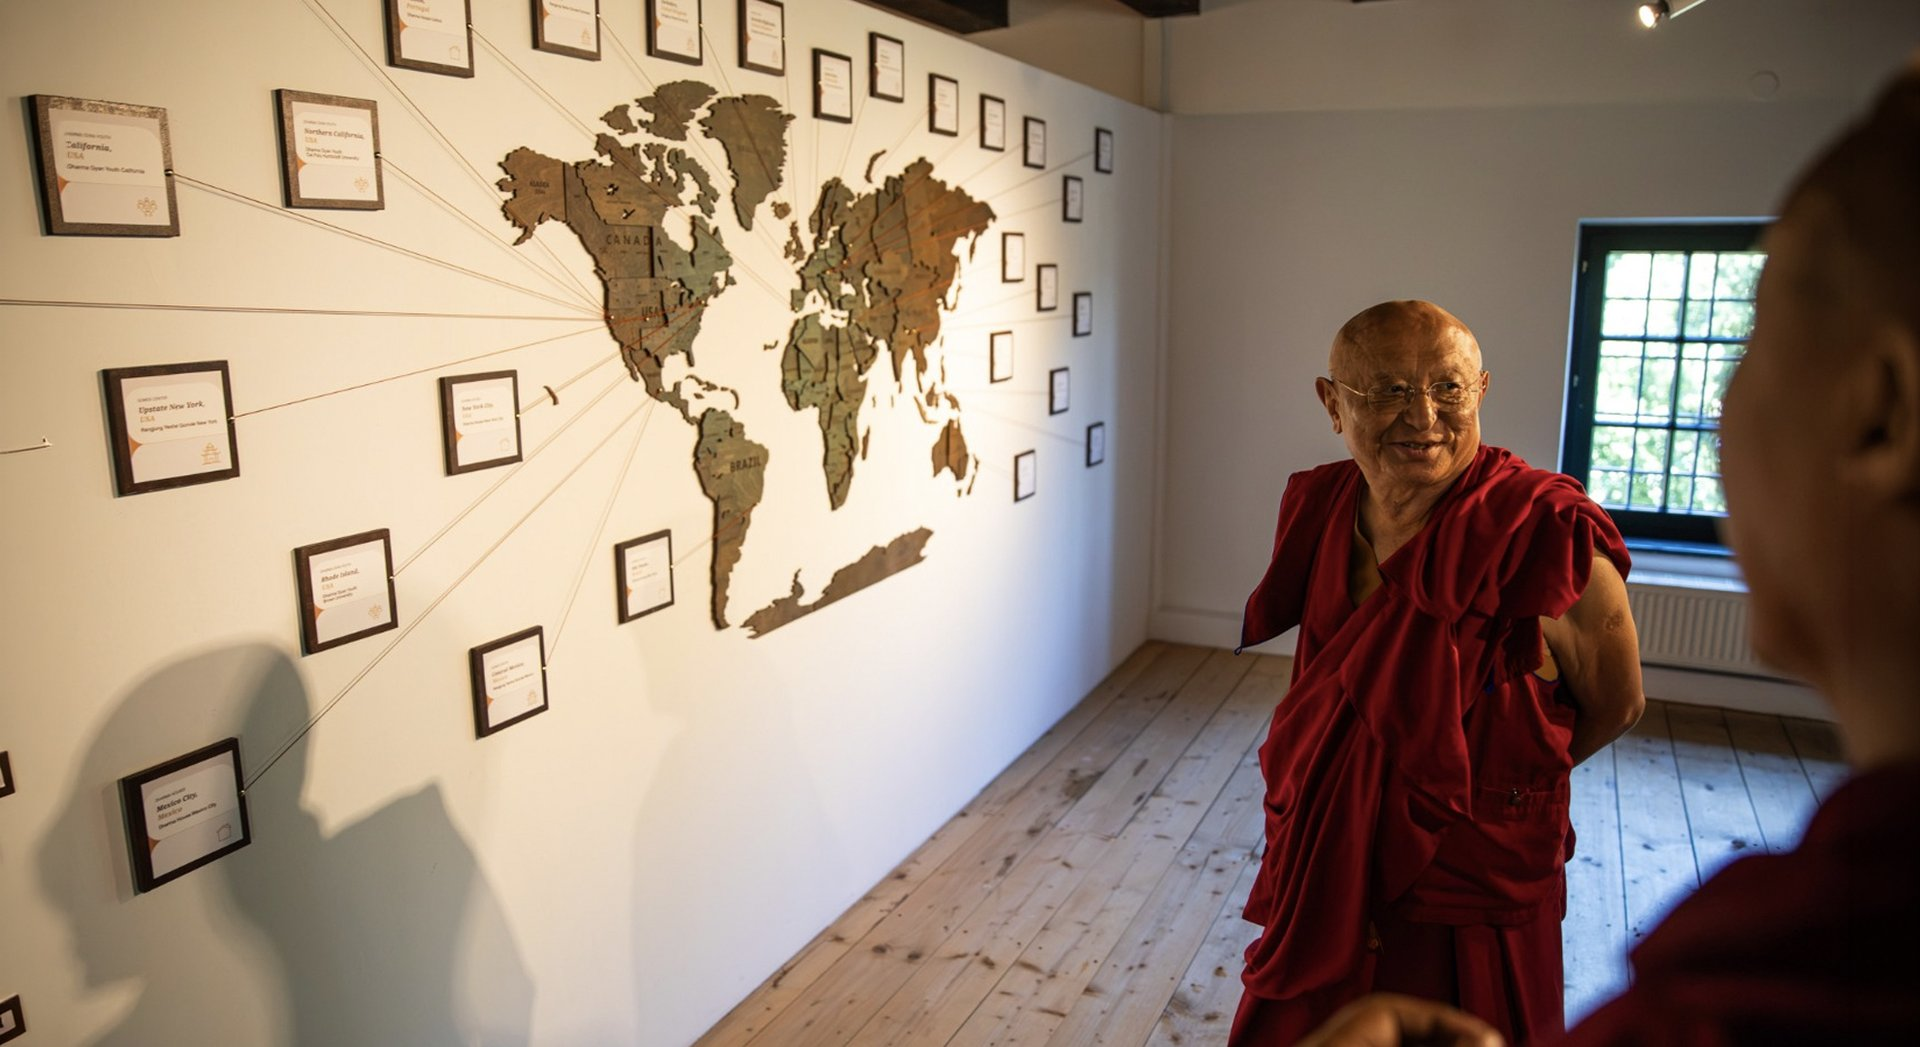
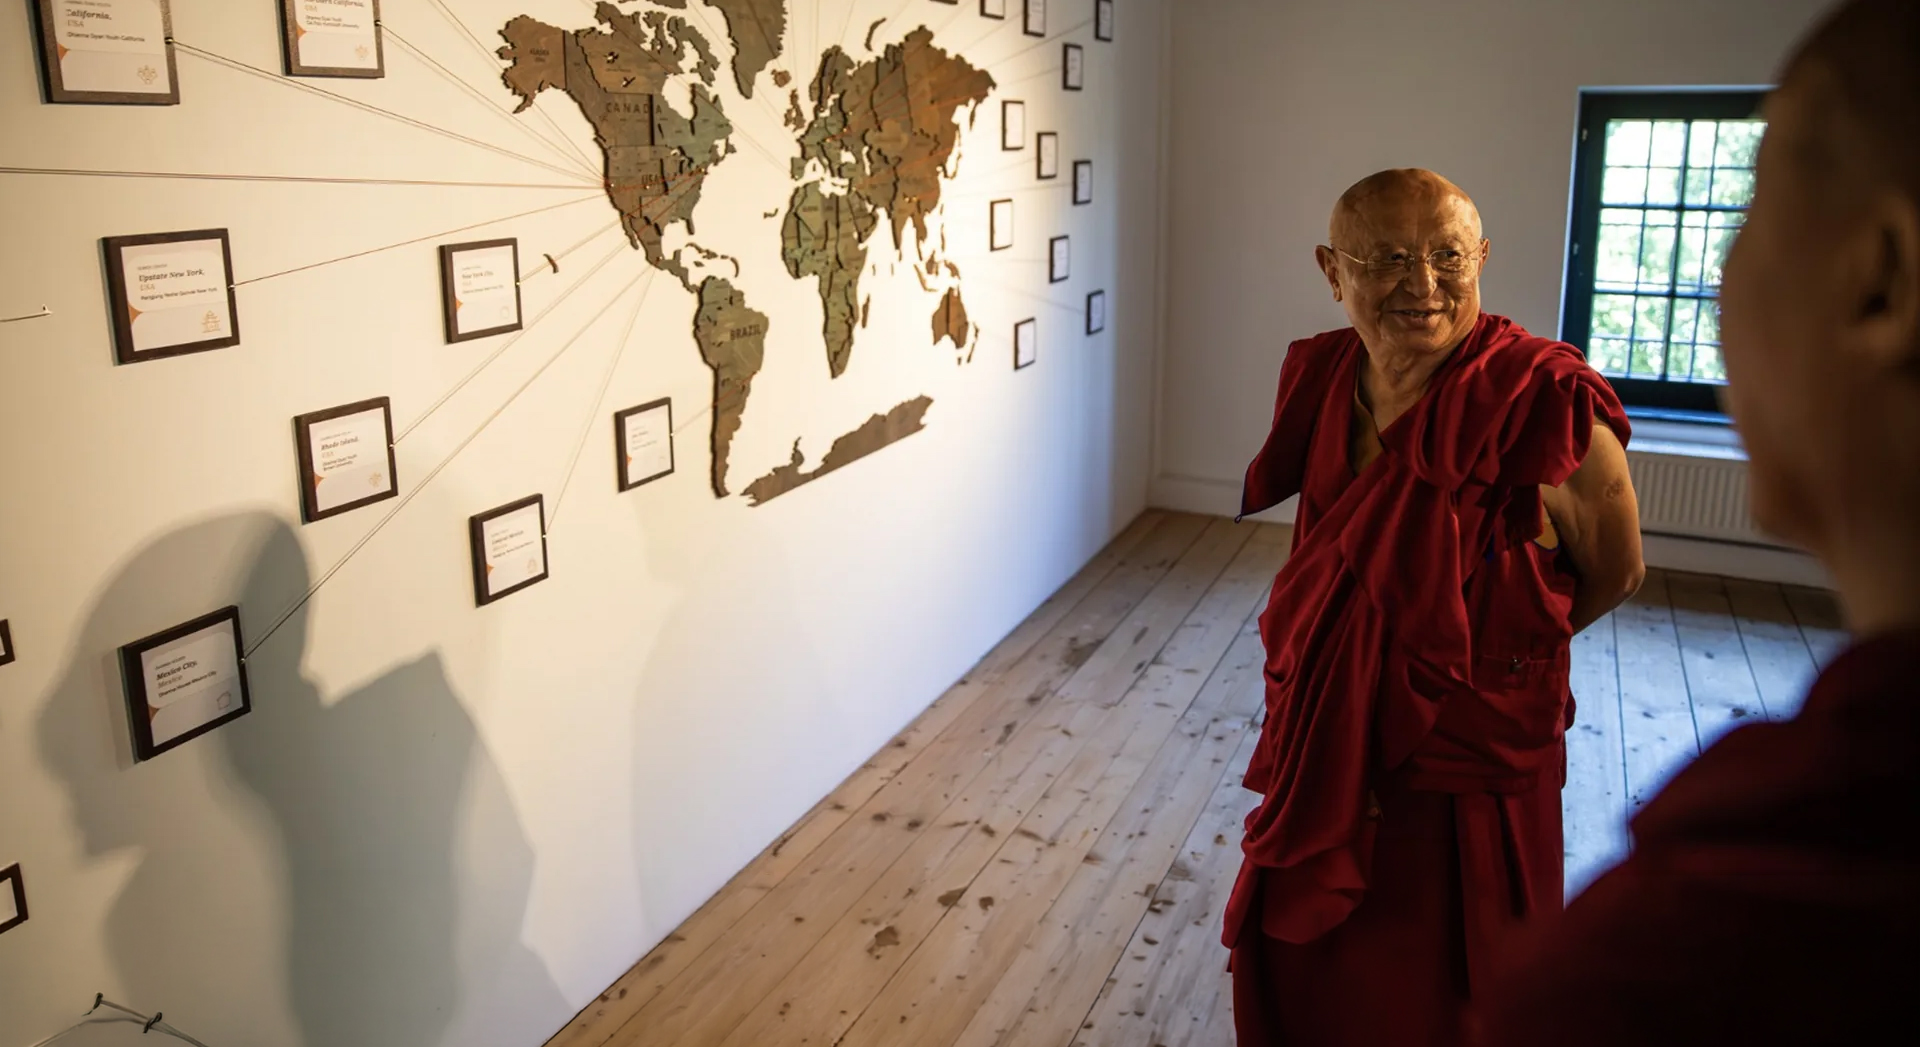
rform should work now

diff --git a/speak-with-our-team.html b/speak-with-our-team.html
@@ -7,7 +7,7 @@
 <meta name="description" content="A founding gift begins with a conversation, not a form. Private, unhurried conversations held directly with the Founding Rector and development team.">
 <link rel="icon" href="img/favicon-32.png" type="image/png" sizes="32x32">
 <link rel="apple-touch-icon" href="img/favicon-192.png">
-<link rel="stylesheet" href="css/style.css?v=37">
+<link rel="stylesheet" href="css/style.css?v=40">
 <script>document.documentElement.classList.add('js');try{var s=window.sessionStorage;if(s.getItem('gomdeLoaderSeen'))document.documentElement.classList.add('loader-seen');else s.setItem('gomdeLoaderSeen','1');}catch(e){}</script>
 </head>
 <body>
@@ -50,7 +50,7 @@
 </header>
 
 <main id="main">
-<section class="page-hero">
+<section class="page-hero page-hero--gradient">
   <div class="wrap">
     <p class="eyebrow">Become a Founder</p>
     <h1>A conversation,<br>before anything else</h1>
@@ -94,14 +94,16 @@
       <h2>Start the conversation</h2>
       <p class="muted">Tell us a little about yourself and what draws you to this work. Everything you share is held in confidence.</p>
 
-      <!-- CONTACT FORM ▸ powered by formsubmit.co (no backend needed).
-           To change the recipient, replace the email in the action URL below.
-           NOTE: the first submission triggers a one-time activation email to
-           that address — click the link in it to activate the form. -->
-      <form action="https://formsubmit.co/[email redacted]" method="POST" class="form-grid">
-        <input type="hidden" name="_subject" value="Founding inquiry — Kremsegg University website">
-        <input type="hidden" name="_template" value="table">
-        <input type="text" name="_honey" style="display:none" tabindex="-1" autocomplete="off" aria-hidden="true">
+      <!-- CONTACT FORM ▸ powered by Web3Forms (no backend needed).
+           Submissions go to the inbox registered to the access_key below.
+           To change the recipient, swap in a new key from https://web3forms.com -->
+
+      <form action="https://api.web3forms.com/submit" method="POST" class="form-grid">
+        <input type="hidden" name="access_key" value="cd746b90-1dbd-4954-8a20-3e30c8b845dc">
+        <input type="hidden" name="subject" value="Founding inquiry — Kremsegg University website">
+        <input type="hidden" name="from_name" value="Kremsegg University website">
+        <!-- honeypot: bots that tick this hidden box are silently rejected -->
+        <input type="checkbox" name="botcheck" style="display:none" tabindex="-1" autocomplete="off" aria-hidden="true">
 
         <div>
           <label for="cf-name">Name</label>
@@ -201,6 +203,47 @@
   if (document.readyState === 'complete') h();
   else window.addEventListener('load', h);
   setTimeout(h, 6000);
+})();
+</script>
+<script>
+/* Contact form — submit via AJAX so we can show an inline "thank you" without
+   leaving the page. Progressive enhancement: if this script doesn't run, the
+   form still POSTs normally and lands on Web3Forms' own success page. */
+(function () {
+  var form = document.querySelector('#contact-form form');
+  if (!form || !window.fetch) return;
+  form.addEventListener('submit', function (e) {
+    e.preventDefault();
+    var btn = form.querySelector('button[type="submit"]');
+    var orig = btn ? btn.textContent : '';
+    if (btn) { btn.disabled = true; btn.textContent = 'Sending…'; }
+    fetch('https://api.web3forms.com/submit', {
+      method: 'POST',
+      headers: { 'Accept': 'application/json' },
+      body: new FormData(form)
+    })
+    .then(function (r) { return r.json(); })
+    .then(function (json) {
+      if (!json.success) throw new Error(json.message || 'failed');
+      var card = form.closest('.form-card');
+      card.innerHTML =
+        '<h2>Thank you.</h2>' +
+        '<p class="muted">Your message has reached our development team. ' +
+        'We read every note personally, and will be in touch soon.</p>';
+      card.scrollIntoView({ behavior: 'smooth', block: 'center' });
+    })
+    .catch(function () {
+      if (btn) { btn.disabled = false; btn.textContent = orig; }
+      var err = form.querySelector('.form-error');
+      if (!err) {
+        err = document.createElement('p');
+        err.className = 'form-error small';
+        err.style.cssText = 'color:var(--maroon);margin-top:.8rem';
+        form.appendChild(err);
+      }
+      err.textContent = 'Sorry — something went wrong sending your message. Please try again, or email us directly.';
+    });
+  });
 })();
 </script>
 <script src="js/main.js?v=17" defer></script>

diff --git a/board.html b/board.html
@@ -7,7 +7,7 @@
 <meta name="description" content="How the Kremsegg University is governed: a permanent separation of spiritual inspiration and academic authority, designed to protect the mission for more than a hundred years.">
 <link rel="icon" href="img/favicon-32.png" type="image/png" sizes="32x32">
 <link rel="apple-touch-icon" href="img/favicon-192.png">
-<link rel="stylesheet" href="css/style.css?v=37">
+<link rel="stylesheet" href="css/style.css?v=39">
 <script>document.documentElement.classList.add('js');</script>
 </head>
 <body>
@@ -50,7 +50,7 @@
 </header>
 
 <main id="main">
-<section class="page-hero">
+<section class="page-hero page-hero--gradient">
   <div class="wrap">
     <p class="eyebrow">Project Team</p>
     <h1>Board &amp; Advisory Council</h1>
@@ -58,7 +58,7 @@
   </div>
 </section>
 
-<section class="section">
+<section class="section" style="background:#fff;border-top:1px solid var(--border);border-bottom:1px solid var(--border)">
   <div class="wrap narrow">
     <h2>How the university is governed</h2>
     <p>Kremsegg University is built to last — its founders&rsquo; stated intention is an institution that remains world-class and sustainable for more than a hundred years. Governance is designed accordingly: to protect the university&rsquo;s mission across generations while guaranteeing the academic freedom and professional standards a degree-granting institution requires.</p>
@@ -79,6 +79,11 @@
       <a class="arrow-link" href="advisors-collaborators.html">Advisors &amp; Collaborators</a>
     </div>
   </div>
+</section>
+
+<section class="quote scroll-parallax">
+  <blockquote>&ldquo;Intelligence without compassion is dangerous. Compassion without wisdom cannot see the path forward.&rdquo;</blockquote>
+  <cite>Chökyi Nyima Rinpoche, Spiritual Guide</cite>
 </section>
 </main>
 

diff --git a/css/style.css b/css/style.css
@@ -370,6 +370,12 @@ body.menu-open { overflow: hidden; }
 
 .page-hero { padding: 3.6rem 0 3rem; text-align: center; border-bottom: 1px solid var(--border); background: radial-gradient(ellipse at 50% -20%, var(--paper) 0%, var(--cream) 65%); }
 .page-hero .lede { max-width: 720px; margin: 0 auto; }
+/* Hero subheader — a serif tagline that sits just beneath the main hero title */
+.page-hero .hero-sub {
+  font-family: var(--serif); font-weight: 400;
+  font-size: clamp(1.4rem, 3vw, 2rem); line-height: 1.25;
+  color: var(--gold-dark); margin: -.15em 0 1rem;
+}
 /* Warm cream-to-gold gradient, matching the home hero */
 .page-hero.page-hero--gradient {
   border-bottom: 0;
@@ -467,6 +473,11 @@ body.menu-open { overflow: hidden; }
     linear-gradient(to right, rgba(253,249,240,.8) 0%, rgba(253,249,240,.58) 42%, rgba(253,249,240,.2) 100%),
     linear-gradient(rgba(253,249,240,.2), rgba(253,249,240,.2));
 }
+
+/* Parallax heroes (vision, academics): hold the copy in a ~500px column on the
+   left, flush to the page gutter, so the fixed background image has room to
+   breathe on the right. Caps each child so nothing runs wider than the column. */
+.page-hero--fixed .wrap > * { max-width: 500px; margin-left: 0; margin-right: auto; }
 
 /* ---- Sections ------------------------------------------------------------ */
 .section { padding: 4rem 0; }

diff --git a/faculty.html b/faculty.html
@@ -7,7 +7,7 @@
 <meta name="description" content="Led by Founding Rector Prof. John Dunne (Harvard PhD, University of Wisconsin–Madison) and guided by Chökyi Nyima Rinpoche, one of the most respected Buddhist teachers of our era.">
 <link rel="icon" href="img/favicon-32.png" type="image/png" sizes="32x32">
 <link rel="apple-touch-icon" href="img/favicon-192.png">
-<link rel="stylesheet" href="css/style.css?v=37">
+<link rel="stylesheet" href="css/style.css?v=40">
 <script>document.documentElement.classList.add('js');try{var s=window.sessionStorage;if(s.getItem('gomdeLoaderSeen'))document.documentElement.classList.add('loader-seen');else s.setItem('gomdeLoaderSeen','1');}catch(e){}</script>
 </head>
 <body>
@@ -53,7 +53,8 @@
 <section class="page-hero page-hero--gradient">
   <div class="wrap">
     <p class="eyebrow">Project Team</p>
-    <h1>Contemplatives, academics, and innovators —<br>together creating Kremsegg</h1>
+    <h1>Contemplatives, academics, and innovators</h1>
+    <p class="hero-sub">together creating Kremsegg</p>
     <p class="lede">A world-renowned teacher whose lineage gives the university its roots, and a scholar of international standing who holds full academic authority. Decades of shared work between them.</p>
   </div>
 </section>

diff --git a/academics.html b/academics.html
@@ -7,7 +7,7 @@
 <meta name="description" content="Two academic tracks, one contemplative foundation: Applied Contemplative Practices and Transformative Leadership, offered at BA and MA level at Kremsegg Castle, Austria.">
 <link rel="icon" href="img/favicon-32.png" type="image/png" sizes="32x32">
 <link rel="apple-touch-icon" href="img/favicon-192.png">
-<link rel="stylesheet" href="css/style.css?v=37">
+<link rel="stylesheet" href="css/style.css?v=40">
 <script>document.documentElement.classList.add('js');try{var s=window.sessionStorage;if(s.getItem('gomdeLoaderSeen'))document.documentElement.classList.add('loader-seen');else s.setItem('gomdeLoaderSeen','1');}catch(e){}</script>
 </head>
 <body>

diff --git a/vision.html b/vision.html
@@ -54,7 +54,7 @@
   <div class="hero-scrim" aria-hidden="true"></div>
   <div class="wrap">
     <p class="eyebrow">The Vision</p>
-    <h1>Compassion guided by the wisdom of interdependence.</h1>
+    <h2>Compassion guided by the wisdom of interdependence.</h2>
     <p class="lede">Built on the conviction that who you are and what you do are not separate domains.</p>
   </div>
 </section>